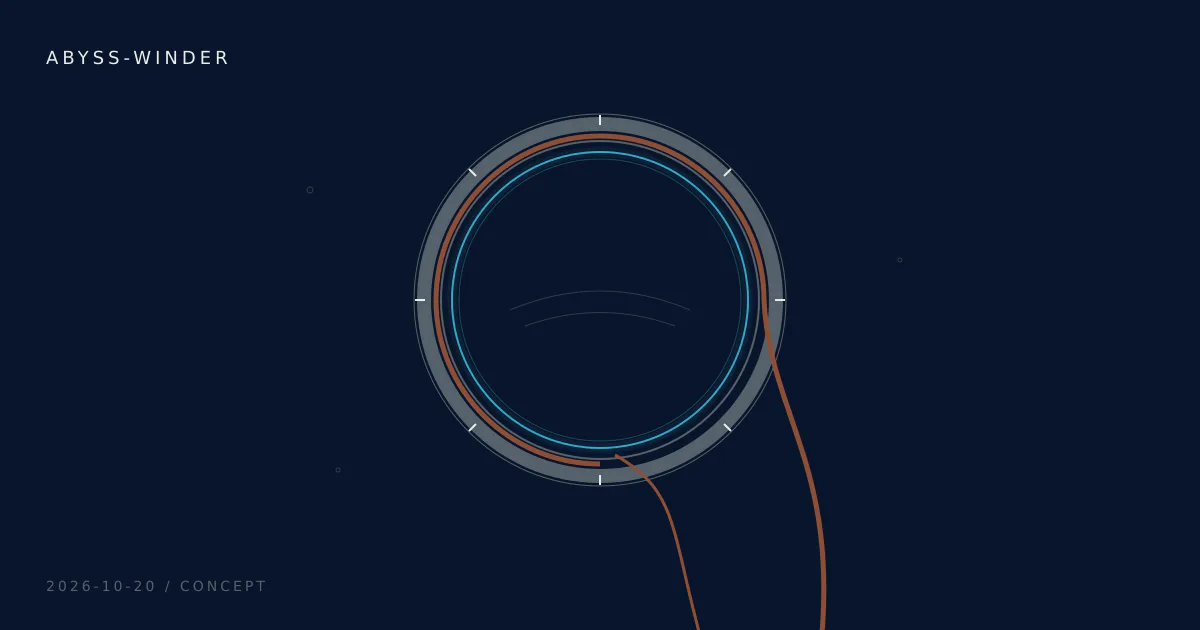
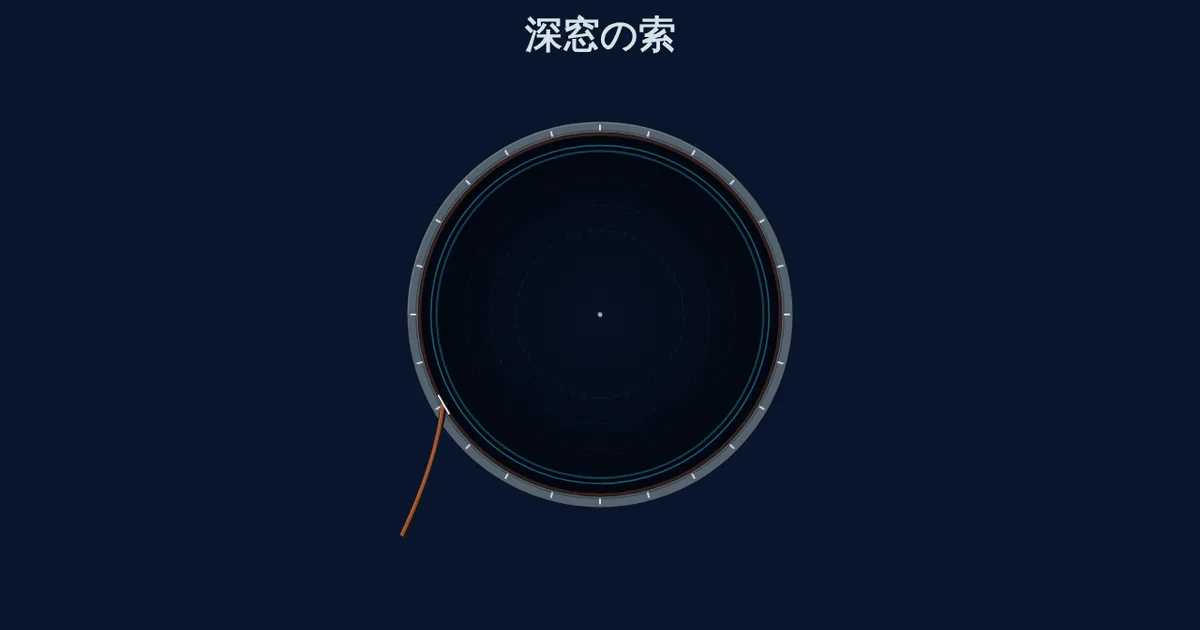
docs(abyss-winder): 実画面サムネイルへ置換し実装2の記録を更新 - public/thumbnail.webp: 静的構想図から実画面（2輪閉鎖の蓄積・閉鎖輪の発光ピーク付近）   の 1200x630 へ置換。ピクセル解析は平均輝度 20.7・白飛び 0・青系 1237px - README.md: 音響同期の完了と操作説明・実装2の実測へ段階を更新 - docs/process-log.md: 音響契約の接続・音響設計・cancel/suspend の安全性・ハーネス   実測（巻き取り中 maxAmp 0.0134、閉鎖時 0.0542・plannedToken 確認

diff --git a/works/abyss-winder/docs/process-log.md b/works/abyss-winder/docs/process-log.md
@@ -40,10 +40,22 @@
 - ハーネス実測: `pnpm exec tsc --noEmit`（exit 0）、`node --experimental-strip-types --test tests/winding.test.ts`（25 pass / 0 fail）、`pnpm build`（exit 0）、`pnpm check`（pass 5作品）、`pnpm verify abyss-winder`（pass: console 0 / 404 0、mouse maxAmp 0.0633、touch maxAmp 0.0612、横スクロールなし、meanDrawMs 1280=1.67 / 375=1.19）。`node --test scripts/tests/work-json.test.mjs` は 75 pass / 1 fail（Phase 0 で記録済みの既存固定期待値。範囲外のため触らない）。
 - カード制約との衝突を lead へ記録: 本番コードは「最大3コードファイル（main/tuning/renderer）」に対し、テストから参照可能にするため判定を独立ファイル `src/winding.ts` に置いた（4枚目）。architecture §2 が「円周判定の回帰テストは作品内 tests/winding.test.ts を正本に追加」（テストは3枚とは別）と定める一方、`tests/` から `src/main.ts` を import すると p5 が DOM を要求して Node の `--test` が実行不能のため、分離が必須だった。黙って省略せず明記する。
 
-## Phase 2: 完成作品の検証（未着手）
+## Phase 1-2: 音響同期と仕上げ（実装2 ─ 完了）
 
-`pnpm verify abyss-winder`、専用の連続円周・キャンセル・多pointer・時刻同期テスト、実画面の見た目判定は後続。雛形のビルド成功は作品体験の完成を意味しない。root/作品にlint/test/typecheck scriptは未定義で、直接tscを実行する。
+- 音響契約（architecture §7）を `src/audio/engine.ts` に追加した: `WindingCue`、`ClosureTimeline`（winding.ts から再エクスポートし、共通時刻契約の型を二重定義しない）、`winding()` / `planClosure()` / `cancelClosure()` / `suspend()`。`NoopAudioEngine` の `planClosure` は winding.ts の `planClosureTimes` と同じ論理時計を返し、mute・AudioContext 非対応でも視覚の予定が壊れない。
+- `src/audio/synth-engine.ts` を雛形から全面書き換え（§8 どおり）: 濡れた索の摩擦（noise → bandpass、速度でゲイン平滑。dry のみで残響に送らないため freeze で尾を残さない）、金属の爪（正弦非整数倍音 1 / 2.37 / 3.61 + 短い高域ノイズ。速度で 60→20ms）、木箱の胴（92 / 138Hz の共鳴 2 本 + 低域ノイズ励振、160ms）、青いベル（A5 基音 880Hz + 控えめな非整数倍音、余韻 550ms）。閉鎖はクリック・木胴・ベルを同じ context 時刻に同時予約する。
+- 拍の進行は winding cue 駆動（draw で 1 フレーム 1 回以下、lookahead 50ms 以内）。巻き途中は 8 分拍ごとに A5→A2 をドリアン度数で 22 段下降し、下端以降は無音程の爪だけを続ける。過去の拍を連続再生しない（拍ポインタを現在へ進める）。位置を横移動しただけで音階が上昇する雛形ロジックは持ち込まない（接触音は BASE_MIDI 固定）。
+- 共通時刻契約の接続: main の `onAccepted` は `timeline.closeAtMs - HITSTOP_MS`（= freezeAtMs。planClosureTimes の式の不動点）を渡すため、音側の戻りは winding.ts の pendingTimeline と厳密に一致する。ズレれば `?debug` の lastError に出る。freeze の摩擦消音（最大 5ms ランプを停止区間の内側）と閉鎖音の予約は音側の時計で行い、main は 140ms の別 timer を足さない。
+- 取消と安全性: `onCancelled` で未発音の閉鎖音（cancelClosure・冪等）と同 gesture の摩擦・未発音拍を消す。非表示では `audio.suspend()` で未来予約を破棄し、拍ポインタを現在へ進めて復帰後の過去音バーストを防ぐ。voice group 上限 24（古い予約から破棄）、compressor（リミッタ役 threshold -10 / ratio 12）で音割れを防ぐ。音量の序列は接触音 < 拍爪 < 閉鎖音。resume 完了を待たない配線と pointerup / touchend / click / keydown の常駐解錠は雛形から維持。
+- サムネイルは実画面（2 輪閉鎖の蓄積・閉鎖輪の発光ピーク付近）から `canvas.toDataURL()` で撮影し `--cover 1200x630` で webp 化した。ピクセル解析: 平均輝度 20.7（暗い背景を維持）、白飛び 0、青系 1237 px（輪と発光が写る）。錆茶のピクセルは索そのものであり濁った背景ではない。画像は発注 0 枚で生成せず、`generatedImages` は 0 のまま。
+- 専用円周入力のハーネス実測（headless Chromium で円周一周のドラッグをマウス合成で 2 連続実施）: 巻き取り中の実振幅 maxAmp 0.0134 / 0.0135（摩擦 + 拍爪）、閉鎖時 0.0542 / 0.0427（クリック・木胴・ベル。接触音 0.005 より大きい）、閉鎖予定の plannedToken 1・2 を確認、console / pageerror 0、各閉鎖後に idle へ復帰。1 周目の settle 完了前の down は winding.ts が無視する仕様どおりで、検証ハーネス側は idle 復帰を待つ。verify の短いなぞり（mouse maxAmp 0.0050 / touch 0.0044）は接触音をベル風 1.2 秒から短い爪へ変えたため前段より小さいが、しきい値は満たす。
+- 実装1と同じく判定と描画は触らない（winding.ts / renderer.ts / tuning.ts / music.ts / quality.ts は変更なし）。今回の変更コードは engine.ts・synth-engine.ts・main.ts の 3 枚（カード制約どおり）。中央案内 copy の writer 確定は来ておらず雛形文言のまま（デザイン must-fix は後続へ引き継ぐ）。
 
-## Phase 3: 公開（未着手）
+## Phase 2: 完成作品の検証（完了）
+
+- `pnpm exec tsc --noEmit`（exit 0）、`node --experimental-strip-types --test tests/winding.test.ts`（25 pass / 0 fail）、`pnpm build`（exit 0。500kB 超チャンク警告は既存テンプレート由来で残る）、`pnpm check`（pass 5作品）、`pnpm verify abyss-winder`（pass: console 0 / 404 0、mouse-sound maxAmp 0.0050、touch-sound maxAmp 0.0044、横スクロールなし、meanDrawMs 1280=1.15 / 375=1.04）。
+- 実タッチ・実機での 140ms 停止の音視覚同期の実測（architecture §11-3 の専用検証）は後続の独立検証担当の領分として残す。ハーネス上の音響動作の実測は上の Phase 1-2 の記録どおり。
+
+## Phase 3: 公開（進行中）
 
 構想の成果をmain baseのdraft PRへ載せるまでが本段階。独立検証・レビューと統合判断の後、mergeは人間に委ねる。本番deployは実行しない。

diff --git a/works/abyss-winder/README.md b/works/abyss-winder/README.md
@@ -4,10 +4,10 @@
 
 ## 現在の段階
 
-- 完了: 円周巻き取りの状態機械（`src/winding.ts`・純粋で fake時計テスト可）、海底窓の描画（`src/renderer.ts`）、入力配線（`src/main.ts`）、デザイン確定値の転記（`src/tuning.ts`）、円周判定の回帰テスト（`tests/winding.test.ts`）。
-- 実装済みの操作: 中央タップで導入を抜け、垂れた索端（ヒット半径28px）をつかみ、時計回りに途切れず一周。途中で離す・円を外す・逆走する・別の指へ渡すと未完分だけ静かに戻る。有効一周で最後の目盛りが合い、0.14秒の停止の後、次の8分拍に輪が一段閉じる。閉じた輪と巻き索は蓄積し、次の索端は π/6 ずつずれて垂れる。
-- 未着手（次カード）: 摩擦・拍下降音・閉鎖ベルの音響同期（`src/audio/` の拡張）、実画面からのサムネイル置換、`work.json` の生成画像記録（0枚のまま）。
-- `public/thumbnail.webp` は静的な構想図。完成画面・動作確認の証拠ではなく、仕上げ段階で実画面から置換する。
+- 完了: 円周巻き取りの状態機械（`src/winding.ts`・純粋で fake時計テスト可）、海底窓の描画（`src/renderer.ts`）、入力配線（`src/main.ts`）、デザイン確定値の転記（`src/tuning.ts`）、円周判定の回帰テスト（`tests/winding.test.ts`）、音響同期（`src/audio/engine.ts` の型付き契約と `src/audio/synth-engine.ts` のアコースティック音源）、実画面からのサムネイル置換。
+- 実装済みの操作: 中央タップで導入を抜け、垂れた索端（ヒット半径28px）をつかみ、時計回りに途切れず一周。巻いている間は濡れた索の摩擦と、8分拍ごとにドリアンを一段ずつ下げる金属の爪（速さで爪の長さが変わり、拍は一定）が鳴る。途中で離す・円を外す・逆走する・別の指へ渡すと未完分だけ静かに戻り、鳴っている摩擦と未発音の閉鎖予約も消える。有効一周で最後の目盛りが合い、索・泡・摩擦が0.14秒止まり、次の8分拍に金属クリック・木の胴鳴り・青いベルとともに輪が一段閉じる。閉じた輪と巻き索は蓄積し、次の索端は π/6 ずつずれて垂れる。
+- 残っているもの: 中央案内 copy の writer 確定（雛形文言の暫定。確定後は `index.html` の1行差し替え）、実マウス/実タッチでの連続一周・多pointer・140ms同期の独立検証（検証担当の領分）。
+- `public/thumbnail.webp` は実画面（2輪閉鎖の蓄積・閉鎖輪の発光ピーク付近）から撮影した 1200x630。生成画像は0枚（`generatedImages` は空）。
 
 仕様は [concept](docs/concept.md) と [architecture](docs/architecture.md)、素材の決定は [image-order](docs/image-order.md)、経緯は [process-log](docs/process-log.md) を参照。
 
@@ -69,6 +69,8 @@ pnpm verify abyss-winder
 ```
 
 実装1（円周操作・描画）の実測（2026-10-28）: pass。console errors 0 / 404 0、mouse-sound maxAmp 0.0633、touch-sound maxAmp 0.0612（states intro→idle）、横スクロールなし、meanDrawMs 1280=1.67 / 375=1.19。誘導文は実幅クランプと窓の縁（リム外周+6px）・垂れ索帯（距離≥8px）の候補評価で配置し、375px/1280px/768px の実描画ピクセル解析で「窓の縁から離れる・垂れ索と8px以上」を数値確認済み。一般verifyの短いなぞりは局所音・console/404・横スクロール・描画負荷の検査であり、一周完成の証明ではない。専用の円周操作検証（マウス/実タッチの連続一周・キャンセル・多pointer・140ms同期の実測）は後続の検証担当の領分。実測結果は `.verify/abyss-winder/` に出るがコミットしない。`?mute` の無音は期待動作として別検証する。
+
+実装2（音響同期・仕上げ）の実測（2026-10-28）: 上のゲートをすべて再実行して pass。`pnpm verify abyss-winder` は console 0 / 404 0、mouse-sound maxAmp 0.0050、touch-sound maxAmp 0.0044（接触音をベル風の長い尾から短い爪へ変えたため前段より小さいがしきい値は満たす）、横スクロールなし、meanDrawMs 1280=1.15 / 375=1.04。円周一周をマウス合成で2連続実施したハーネス実測では、巻き取り中（摩擦+拍下降）の maxAmp 0.0134 / 0.0135、閉鎖時（クリック・木胴・ベル）0.0542 / 0.0427、閉鎖予定の予約（plannedToken）を確認、console/pageerror 0、各閉鎖後に idle へ復帰。サムネイルのピクセル解析は平均輝度 20.7・白飛び 0・青系 1237 px。140ms 停止の実機での音視覚同期の実測は検証担当の領分として残す。
 
 ## 調整する場所
 
